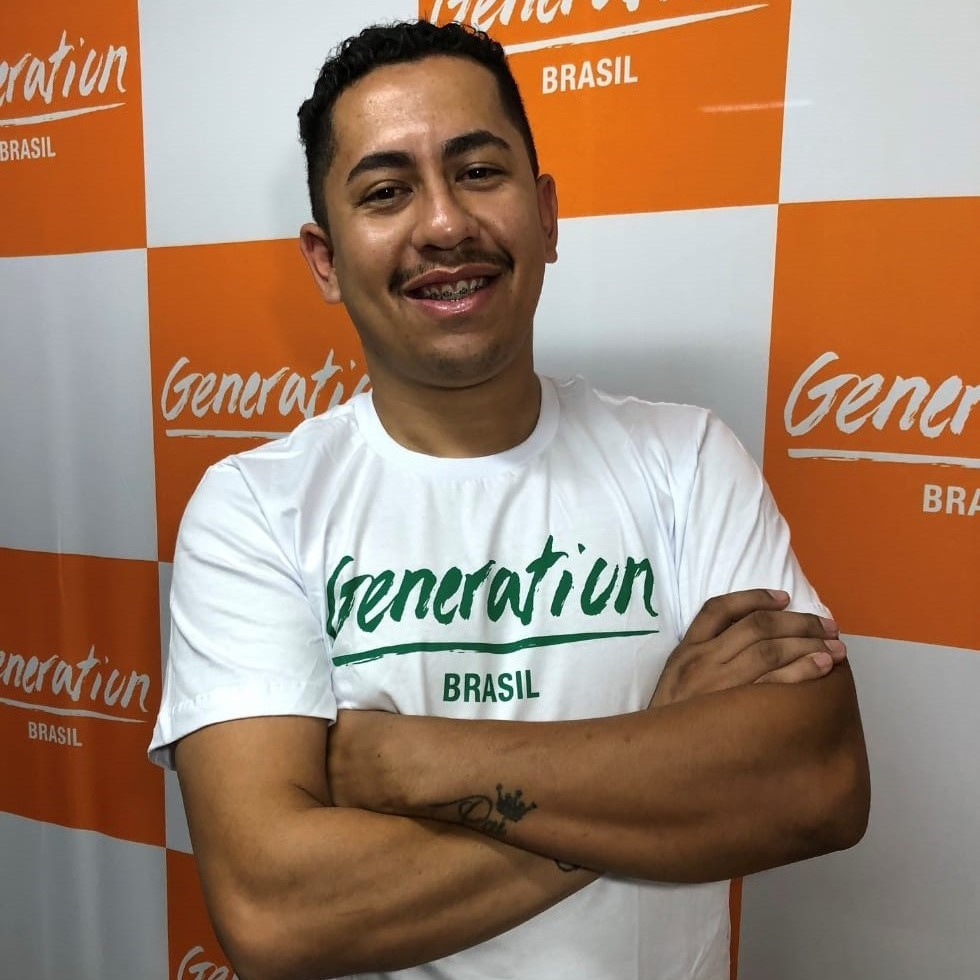
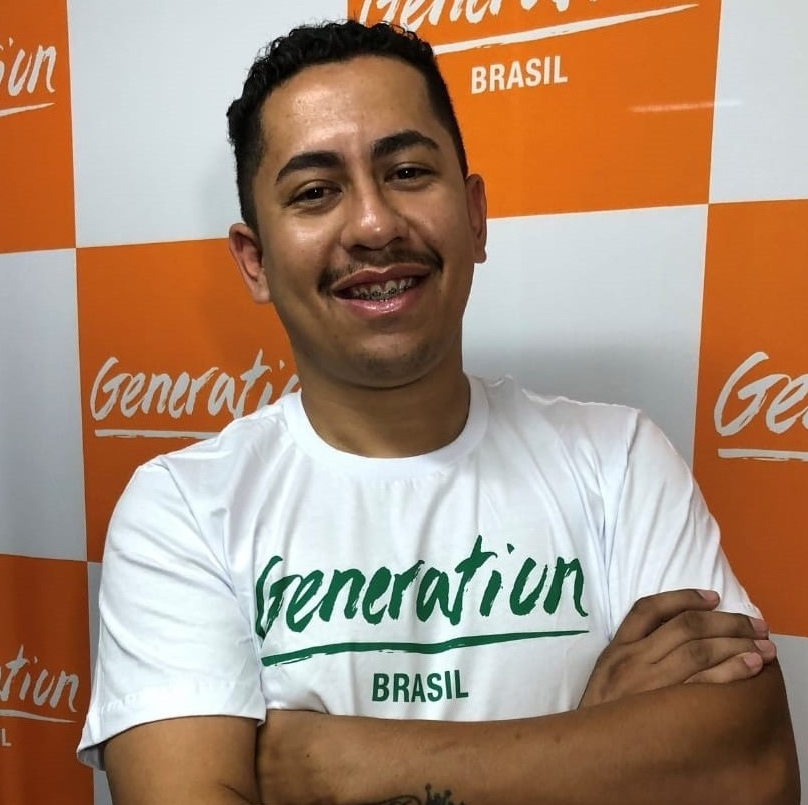
Atualização das fotos e implementação do parallax na pagina sobre nos

diff --git a/FrontEnd/src/app/sobre-nos/sobre-nos.component.html b/FrontEnd/src/app/sobre-nos/sobre-nos.component.html
@@ -1,53 +1,61 @@
 <!--Começo dos cards e Sobre nós-->
 
-<div class="card-group">
-    <div class="card">
-        <img src="/assets/Imagens_Pessoais/MatheusAraujo.jpg" class="card-img-top" alt="...">
-        <div class="card-body" class="card text-white bg-primary mb-3">
-            <h5 class="card-title">Matheus Araujo</h5>
-            <p class="card-text">This is a wider card with supporting text below as a natural lead-in to additional
-                content. This content is a little bit longer.</p>
+
+<div class="parallax"> </div>
+
+    <div class="card-group">
+        <div class="card">
+            <img src="/assets/Imagens_Pessoais/MatheusAraujo.jpg" width="235px" Height="235px" class="card-img-top"
+                alt="...">
+            <div class="card-body" class="card text-white bg-primary " >
+                <h5 class="card-title">Matheus Araujo</h5>
+                <p class="card-text">This is a wider card with supporting text below as a natural lead-in to additional
+                    content. This card has even longer content than the first to show that equal height action.</p>
+            </div>
+        </div>
+        <div class="card">
+            <img src="/assets/Imagens_Pessoais/matheus.jpg" width="240px" Height="235px" alt="...">
+            <div class="card-body" class="card text-white bg-primary ">
+                <h5 class="card-title">Matheus Torok</h5>
+                <p class="card-text">This is a wider card with supporting text below as a natural lead-in to additional
+                    content. This card has even longer content than the first to show that equal height action.</p>
+            </div>
+        </div>
+        <div class="card">
+            <img src="/assets/Imagens_Pessoais/phelipe.jpg" width="235px" Height="235px" class="card-img-top" alt="...">
+            <div class="card-body" class="card text-white bg-primary ">
+                <h5 class="card-title">Phelipe Almeida</h5>
+                <p class="card-text">This is a wider card with supporting text below as a natural lead-in to additional
+                    content. This card has even longer content than the first to show that equal height action.</p>
+            </div>
+        </div>
+        <div class="card">
+            <img src="/assets/Imagens_Pessoais/rafaela.jpg" width="235px" Height="235px" class="card-img-top" alt="...">
+            <div class="card-body"  class="card text-white bg-primary ">
+                <h5 class="card-title">Rafaela Albuquerque</h5>
+                <p class="card-text">This is a wider card with supporting text below as a natural lead-in to additional
+                    content. This card has even longer content than the first to show that equal height action.</p>
+            </div>
+        </div>
+        <div class="card">
+            <img src="/assets/Imagens_Pessoais/ricardo.jpg" width="235px" Height="235px" class="card-img-top" alt="...">
+            <div class="card-body"  class="card text-white bg-primary ">
+                <h5 class="card-title">Ricardo Martins</h5>
+                <p class="card-text">This is a wider card with supporting text below as a natural lead-in to additional
+                    content. This card has even longer content than the first to show that equal height action.</p>
+            </div>
+        </div>
+        <div class="card">
+            <img src="/assets/Imagens_Pessoais/karina.jpg" width="235px" Height="235px" class="card-img-top" alt="...">
+            <div class="card-body"  class="card text-white bg-primary ">
+                <h5 class="card-title">Karina Lima</h5>
+                <p class="card-text">This is a wider card with supporting text below as a natural lead-in to additional
+                    content. This card has even longer content than the first to show that equal height action.</p>
+            </div>
         </div>
     </div>
-    <div class="card">
-        <img src="/assets/Imagens_Pessoais/matheus.png"  alt="...">
-        <div class="card-body" class="card text-white bg-success mb-3">
-            <h5 class="card-title">Matheus Torok</h5>
-            <p class="card-text">This card has supporting text below as a natural lead-in to additional content.</p>
-        </div>
-    </div>
-    <div class="card">
-        <img src="/assets/Imagens_Pessoais/Phelipe.jpg" class="card-img-top" alt="...">
-        <div class="card-body">
-            <h5 class="card-title">Phelipe Almeida</h5>
-            <p class="card-text">This is a wider card with supporting text below as a natural lead-in to additional
-                content. This card has even longer content than the first to show that equal height action.</p>
-        </div>
-    </div>
-    <div class="card">
-        <img src="/assets/Imagens_Pessoais/rafaela.png" class="card-img-top" alt="...">
-        <div class="card-body">
-            <h5 class="card-title">Rafaela Albuquerque</h5>
-            <p class="card-text">This is a wider card with supporting text below as a natural lead-in to additional
-                content. This card has even longer content than the first to show that equal height action.</p>
-        </div>
-    </div>
-    <div class="card">
-        <img src="/assets/Imagens_Pessoais/ricardo.png" class="card-img-top" alt="...">
-        <div class="card-body">
-            <h5 class="card-title">Ricardo Martins</h5>
-            <p class="card-text">This is a wider card with supporting text below as a natural lead-in to additional
-                content. This card has even longer content than the first to show that equal height action.</p>
-        </div>
-    </div>
-    <div class="card">
-        <img src="/assets/Imagens_Pessoais/karina.png"  class="card-img-top" alt="...">
-        <div class="card-body">
-            <h5 class="card-title">Karina Lima</h5>
-            <p class="card-text">This is a wider card with supporting text below as a natural lead-in to additional
-                content. This card has even longer content than the first to show that equal height action.</p>
-        </div>
-    </div>
-</div>
+    <div class="parallax"> </div>
+
+
 
 <!--Final dos Cards e final do sobre nos-->

diff --git a/FrontEnd/src/app/sobre-nos/sobre-nos.component.css b/FrontEnd/src/app/sobre-nos/sobre-nos.component.css
@@ -1,0 +1,13 @@
+.parallax{
+    background-image: url('/assets/Imagens_Pessoais/1.png');
+
+    min-height: 500px;
+
+    background-attachment: fixed;
+
+    background-position: center;
+
+    background-repeat: no-repeat;
+
+    background-size: cover;
+}
